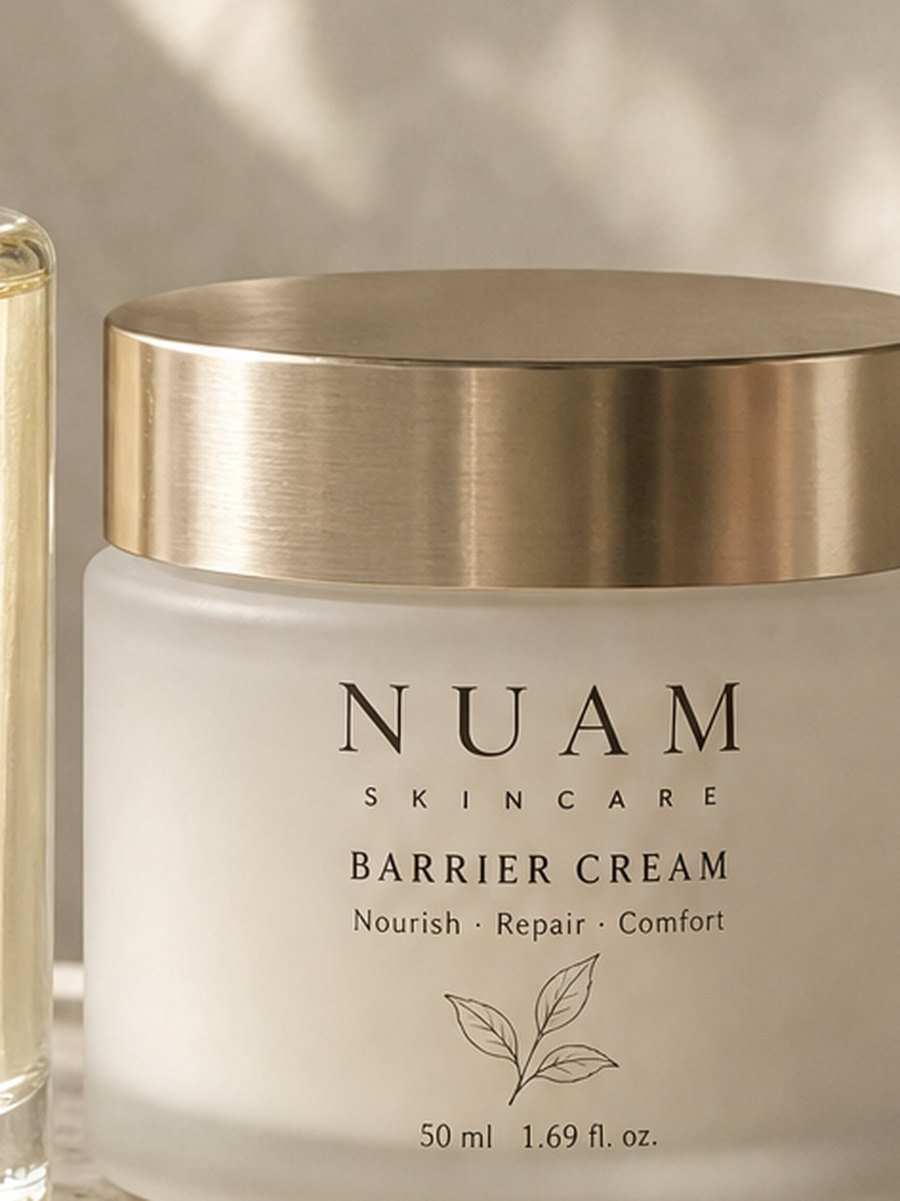
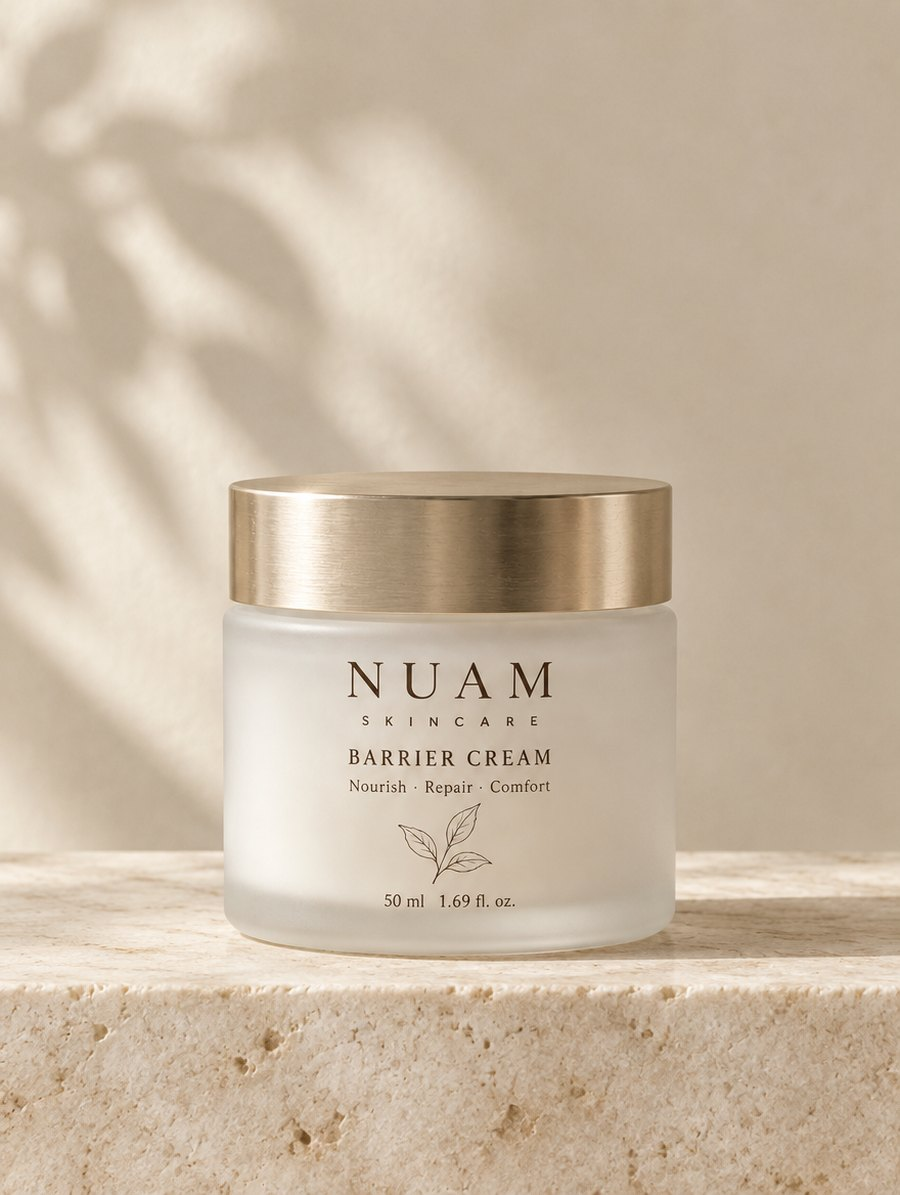
누암 제품컷 새로 생성해 교체 · 립오일을 신제품 라인으로 분리
Claude-Session: https://claude.ai/code/session_012Pxzg4ZZtgtWbr63iVa8wK

diff --git a/service-sales.html b/service-sales.html
@@ -206,7 +206,7 @@ html { scroll-behavior: auto; }
       <div class="sl-hero">
         <figure class="sl-shot">
           <div class="sl-shotframe">
-            <img src="assets/ref/img/nuam-cut-drop.jpg" alt="누암 배리어 세럼을 가까이 잡은 제품 컷" width="1200" height="1604" decoding="async">
+            <img src="assets/ref/img/nuam-cut-drop.jpg" alt="누암 배리어 세럼을 가까이 잡은 제품 컷" width="900" height="1195" decoding="async">
           </div>
           <figcaption class="sl-note"><strong>누암 배리어 세럼</strong> — 상세페이지 첫 화면에 그대로 올라가는 컷. <span class="sl-tag">가상 브랜드 콘셉트</span></figcaption>
         </figure>
@@ -301,7 +301,7 @@ html { scroll-behavior: auto; }
       <div class="grid grid--3 sl-grid3 mt-32" tabindex="0" role="group" aria-label="상세페이지 3장">
         <a class="card reveal" href="assets/ref/sites/nuam-detail.html" target="_blank" rel="noopener">
           <div class="media media--4x5">
-            <img src="assets/ref/img/nuam-cut-lineup.jpg" alt="누암 토너·세럼·크림을 나란히 세운 제품 컷" width="1200" height="1604" loading="lazy" decoding="async">
+            <img src="assets/ref/img/nuam-cut-lineup.jpg" alt="누암 토너·세럼·크림을 나란히 세운 제품 컷" width="880" height="1168" loading="lazy" decoding="async">
           </div>
           <p class="eyebrow mt-24">상세페이지 · 스킨케어 세럼</p>
           <h3>누암 배리어 세럼</h3>
@@ -341,7 +341,7 @@ html { scroll-behavior: auto; }
       <p class="lead maxw-60 reveal reveal-d1">상세페이지의 절반은 사진입니다. 스튜디오를 빌리지 않고 상품에 맞는 장면을 직접 만들어 씁니다. 옆으로 밀어서 보세요.</p>
 
       <div class="sl-rail mt-32" tabindex="0" role="group" aria-label="제품 컷 4장">
-        <figure class="sl-railitem"><div class="sl-shotframe"><img src="assets/ref/img/nuam-cut-texture.jpg" alt="누암을 쓴 뒤의 피부결을 보여주는 모델 뷰티 컷" width="1200" height="1604" loading="lazy" decoding="async"></div></figure>
+        <figure class="sl-railitem"><div class="sl-shotframe"><img src="assets/ref/img/nuam-cut-texture.jpg" alt="누암을 쓴 뒤의 피부결을 보여주는 모델 뷰티 컷" width="900" height="1200" loading="lazy" decoding="async"></div></figure>
         <figure class="sl-railitem"><div class="sl-shotframe"><img src="assets/ref/img/odok-cut-ingredients.jpg" alt="간식 원료를 늘어놓은 컷" width="1200" height="1604" loading="lazy" decoding="async"></div></figure>
         <figure class="sl-railitem"><div class="sl-shotframe"><img src="assets/ref/img/odok-cut-macro.jpg" alt="큐브 간식의 단면을 확대한 컷" width="1200" height="1604" loading="lazy" decoding="async"></div></figure>
         <figure class="sl-railitem"><div class="sl-shotframe"><img src="assets/ref/img/ppodeuk-cut-lineup.jpg" alt="세 가지 용기와 리필 파우치를 세운 라인업 컷" width="1200" height="1604" loading="lazy" decoding="async"></div></figure>
@@ -353,7 +353,7 @@ html { scroll-behavior: auto; }
       <div class="grid grid--3 sl-grid3 mt-24" tabindex="0" role="group" aria-label="썸네일 3장">
         <div class="card reveal">
           <div class="media media--16x9">
-            <img src="assets/ref/img/nuam-hero.jpg" alt="누암 썸네일 컷 — 선반 위에 놓인 토너·세럼·크림" width="1600" height="904" loading="lazy" decoding="async">
+            <img src="assets/ref/img/nuam-hero.jpg" alt="누암 썸네일 컷 — 선반 위에 놓인 토너·세럼·크림" width="1200" height="671" loading="lazy" decoding="async">
           </div>
           <p class="sl-note mb-0">누암 NUAM · 스킨케어 — 제품 하나만 남기고 지면을 비웠습니다.</p>
         </div>

diff --git a/reference.html b/reference.html
@@ -445,7 +445,7 @@
     </div>
 
     <figure class="bleed bleed--wide reveal">
-      <img class="ref-band-up" src="assets/ref/img/nuam-hero.jpg" alt="누암 상세페이지 첫 화면에 쓴 제품 컷 — 토너·세럼·크림 세 가지" width="1600" height="904" loading="lazy" decoding="async">
+      <img class="ref-band-up" src="assets/ref/img/nuam-hero.jpg" alt="누암 상세페이지 첫 화면에 쓴 제품 컷 — 토너·세럼·크림 세 가지" width="1200" height="671" loading="lazy" decoding="async">
       <figcaption>누암 배리어 세럼 상세페이지 첫 화면에 쓴 컷입니다. 모델 섭외도 촬영 스튜디오도 쓰지 않았습니다.</figcaption>
     </figure>
   </section>
@@ -640,7 +640,21 @@
       </div>
 
       <h3 class="ref-h3 reveal">UGC · 인플루언서 광고</h3>
-      <p class="ref-note reveal">크리에이터가 직접 찍어 올린 것처럼 보이는 광고입니다. 같은 제품 하나로 라이브 톤, 친구에게 말하는 톤, 발색 클로즈업, 제품컷까지 결을 바꿔가며 만듭니다. 모델 섭외도 촬영도 하지 않았습니다.</p>
+      <p class="ref-note reveal">앞의 기본 3종을 만든 같은 브랜드에서 <strong>신제품 하나가 나왔을 때</strong>를 가정했습니다. 누암 틴티드 립오일 한 품목으로, 크리에이터가 직접 찍어 올린 것처럼 보이는 광고를 라이브 톤, 친구에게 말하는 톤, 발색 클로즈업, 제품컷까지 결을 바꿔가며 만듭니다. 모델 섭외도 촬영도 하지 않았습니다.</p>
+      <div class="refgrid refgrid--v refgrid--v2 mb-24">
+        <article class="refcard reveal">
+          <div class="refcard-media"><img src="assets/ref/img/nuam-lip-product.jpg" alt="누암 틴티드 립오일 제품 컷 — 햇살 든 선반 위에 동백 잎과 함께 놓인 핑크 글라스 튜브" loading="lazy" decoding="async" width="810" height="1440"></div>
+          <p class="refcard-cat">제품컷</p>
+          <p class="refcard-title">누암 틴티드 립오일 · No.01 Petal Pink</p>
+          <p class="refcard-badge">가상 브랜드 콘셉트</p>
+        </article>
+        <article class="refcard reveal reveal-d1">
+          <div class="refcard-media"><img src="assets/ref/img/nuam-lip-model.jpg" alt="모델이 누암 틴티드 립오일을 얼굴 옆에 들고 카메라를 바라보는 뷰티 컷" loading="lazy" decoding="async" width="810" height="1440"></div>
+          <p class="refcard-cat">모델컷</p>
+          <p class="refcard-title">아래 광고 다섯 편이 이 제품 하나로 만들어졌습니다</p>
+          <p class="refcard-badge">가상 브랜드 콘셉트</p>
+        </article>
+      </div>
       <div class="refgrid refgrid--v refgrid--v5">
         <article class="refcard reveal">
           <div class="refcard-media">
@@ -679,7 +693,7 @@
             <button class="refcard-sound" type="button" aria-label="소리 켜기"><svg viewBox="0 0 24 24" width="18" height="18" aria-hidden="true" focusable="false"><path d="M4 9.5h3.2L12 5.4v13.2L7.2 14.5H4z" fill="currentColor"/><g class="s-off" stroke="currentColor" stroke-width="1.9" stroke-linecap="round"><path d="M16 9.6l4.4 4.8"/><path d="M20.4 9.6L16 14.4"/></g><g class="s-on" stroke="currentColor" stroke-width="1.9" fill="none" stroke-linecap="round"><path d="M15.8 9.2a4.2 4.2 0 0 1 0 5.6"/><path d="M18.4 7.2a7.6 7.6 0 0 1 0 9.6"/></g></svg></button>
           </div>
           <p class="refcard-cat">제품컷 · 15초</p>
-          <p class="refcard-title">햇빛과 그림자만으로 — 립 제품 제품컷</p>
+          <p class="refcard-title">햇빛과 그림자만으로 — 누암 틴티드 립오일</p>
           <p class="refcard-badge">가상 브랜드 콘셉트</p>
         </article>
         <article class="refcard reveal reveal-d4">

diff --git a/assets/ref/sites/nuam-home.html b/assets/ref/sites/nuam-home.html
@@ -809,7 +809,7 @@ html.in-frame .reveal{opacity:1 !important;transform:none !important}
 <main>
 
   <figure class="band">
-    <img src="../img/nuam-hero.jpg" width="1600" height="904" loading="eager" decoding="async"
+    <img src="../img/nuam-hero.jpg" width="1200" height="671" loading="eager" decoding="async"
          alt="누암 토너·세럼·크림 세 가지가 햇살이 드는 선반 위에 나란히 놓인 브랜드 컷.">
     <figcaption>누암 토너 · 세럼 · 크림</figcaption>
   </figure>
@@ -997,9 +997,9 @@ html.in-frame .reveal{opacity:1 !important;transform:none !important}
 
         <article class="card reveal reveal-d1">
           <div class="card-fig">
-            <img src="../img/nuam-cut-toner.jpg" width="1200" height="1604" loading="eager" decoding="sync" fetchpriority="high"
+            <img src="../img/nuam-cut-toner.jpg" width="900" height="1195" loading="eager" decoding="sync" fetchpriority="high"
                  alt="누암 카밍 토너 200ml 한 병이 햇살 든 선반 위에 서 있다.">
-            <img class="cut-b" src="../img/nuam-cut-lineup.jpg" width="1200" height="1604" loading="lazy" decoding="async" alt="" aria-hidden="true">
+            <img class="cut-b" src="../img/nuam-cut-lineup.jpg" width="880" height="1168" loading="lazy" decoding="async" alt="" aria-hidden="true">
           </div>
           <div class="plate">
             <span class="plate-num">200</span>
@@ -1026,9 +1026,9 @@ html.in-frame .reveal{opacity:1 !important;transform:none !important}
 
         <article class="card reveal reveal-d2">
           <div class="card-fig">
-            <img src="../img/nuam-cut-drop.jpg" width="1200" height="1604" loading="eager" decoding="sync"
+            <img src="../img/nuam-cut-drop.jpg" width="900" height="1195" loading="eager" decoding="sync"
                  alt="누암 배리어 세럼 30ml 한 병을 드로퍼 캡까지 가까이 잡은 제품 컷.">
-            <img class="cut-b" src="../img/nuam-cut-texture.jpg" width="1200" height="1604" loading="lazy" decoding="async" alt="" aria-hidden="true">
+            <img class="cut-b" src="../img/nuam-cut-texture.jpg" width="900" height="1200" loading="lazy" decoding="async" alt="" aria-hidden="true">
           </div>
           <div class="plate">
             <span class="plate-num">30</span>
@@ -1055,9 +1055,9 @@ html.in-frame .reveal{opacity:1 !important;transform:none !important}
 
         <article class="card reveal reveal-d3">
           <div class="card-fig">
-            <img src="../img/nuam-cut-cream.jpg" width="1200" height="1604" loading="eager" decoding="sync"
+            <img src="../img/nuam-cut-cream.jpg" width="900" height="1195" loading="eager" decoding="sync"
                  alt="누암 배리어 크림 50ml 용기를 골드 캡이 보이도록 가까이 잡은 제품 컷.">
-            <img class="cut-b" src="../img/nuam-hero.jpg" width="1600" height="904" loading="lazy" decoding="async" alt="" aria-hidden="true">
+            <img class="cut-b" src="../img/nuam-hero.jpg" width="1200" height="671" loading="lazy" decoding="async" alt="" aria-hidden="true">
           </div>
           <div class="plate">
             <span class="plate-num">50</span>

diff --git a/assets/ref/sites/nuam-detail.html b/assets/ref/sites/nuam-detail.html
@@ -364,7 +364,7 @@ footer .concept{font-size:12px;color:#8E7D84;margin-top:24px}
 
 <header class="hero" id="hero">
   <figure class="hero-shot" id="heroShot">
-    <img src="../img/nuam-hero.jpg" width="1600" height="904" loading="eager" decoding="async"
+    <img src="../img/nuam-cut-lineup.jpg" width="880" height="1168" loading="eager" decoding="async"
          alt="누암 토너·세럼·크림 세 가지가 햇살이 드는 선반 위에 나란히 놓인 브랜드 컷.">
     <figcaption>저녁에 다섯 겹.<br>다 마르길 기다리는 시간이 길다.</figcaption>
   </figure>
@@ -398,7 +398,7 @@ footer .concept{font-size:12px;color:#8E7D84;margin-top:24px}
 </header>
 
 <figure class="band">
-  <img src="../img/nuam-cut-texture.jpg" width="1200" height="1604" loading="lazy" decoding="async"
+  <img src="../img/nuam-cut-texture.jpg" width="900" height="1200" loading="lazy" decoding="async"
        alt="누암을 쓴 뒤의 피부결을 보여주는 모델 뷰티 컷.">
   <figcaption>누암 배리어 세럼 30ml</figcaption>
 </figure>
@@ -548,7 +548,7 @@ footer .concept{font-size:12px;color:#8E7D84;margin-top:24px}
     <div class="steps">
       <div class="step">
         <figure class="step-fig">
-          <img src="../img/nuam-cut-drop.jpg" width="1200" height="1604" loading="lazy" decoding="async" alt="누암 배리어 세럼 30ml 한 병을 드로퍼 캡까지 가까이 잡은 제품 컷.">
+          <img src="../img/nuam-cut-drop.jpg" width="900" height="1195" loading="lazy" decoding="async" alt="누암 배리어 세럼 30ml 한 병을 드로퍼 캡까지 가까이 잡은 제품 컷.">
         </figure>
         <span class="sn">1</span>
         <h4>세안 후 2~3방울</h4>
@@ -556,7 +556,7 @@ footer .concept{font-size:12px;color:#8E7D84;margin-top:24px}
       </div>
       <div class="step">
         <figure class="step-fig">
-          <img src="../img/nuam-cut-texture.jpg" width="1200" height="1604" loading="lazy" decoding="async" alt="누암을 쓴 뒤의 피부결을 보여주는 모델 뷰티 컷.">
+          <img src="../img/nuam-cut-texture.jpg" width="900" height="1200" loading="lazy" decoding="async" alt="누암을 쓴 뒤의 피부결을 보여주는 모델 뷰티 컷.">
         </figure>
         <span class="sn">2</span>
         <h4>얼굴 전체에 얇게</h4>
@@ -564,7 +564,7 @@ footer .concept{font-size:12px;color:#8E7D84;margin-top:24px}
       </div>
       <div class="step">
         <figure class="step-fig">
-          <img src="../img/nuam-cut-lineup.jpg" width="1200" height="1604" loading="lazy" decoding="async" alt="토너·세럼·크림 세 가지가 햇살 든 선반 위에 나란히 놓여 있다.">
+          <img src="../img/nuam-cut-lineup.jpg" width="880" height="1168" loading="lazy" decoding="async" alt="토너·세럼·크림 세 가지가 햇살 든 선반 위에 나란히 놓여 있다.">
         </figure>
         <span class="sn">3</span>
         <h4>손바닥으로 감싸 흡수</h4>

diff --git a/index.html b/index.html
@@ -200,7 +200,7 @@ main .section--flush-t { padding-top: 0; }
 
         <article class="card pkg reveal reveal-d2">
           <div class="media media--16x9">
-            <img src="assets/ref/img/nuam-hero.jpg" alt="가상 브랜드 NUAM 누암 메인컷 — 상세페이지 첫 화면에 쓴 제품 사진" width="1600" height="904" loading="lazy" decoding="async">
+            <img src="assets/ref/img/nuam-hero.jpg" alt="가상 브랜드 NUAM 누암 메인컷 — 상세페이지 첫 화면에 쓴 제품 사진" width="1200" height="671" loading="lazy" decoding="async">
           </div>
           <p class="pkg-tag">② 온라인 매출 패키지</p>
           <h3>팔 물건이 있다면, 팔리는 화면부터 만듭니다.</h3>
@@ -286,7 +286,7 @@ main .section--flush-t { padding-top: 0; }
 
       <div class="split-media mt-32">
         <div class="media media--4x3 reveal">
-          <img src="assets/ref/img/nuam-cut-drop.jpg" alt="누암 배리어 세럼 30ml 한 병을 드로퍼 캡까지 가까이 잡은 제품컷" width="1200" height="1604" loading="lazy" decoding="async">
+          <img src="assets/ref/img/nuam-cut-drop.jpg" alt="누암 배리어 세럼 30ml 한 병을 드로퍼 캡까지 가까이 잡은 제품컷" width="900" height="1195" loading="lazy" decoding="async">
         </div>
         <div class="reveal reveal-d1">
           <p class="eyebrow">설명보다 결과물이 빠릅니다</p>
@@ -408,7 +408,7 @@ main .section--flush-t { padding-top: 0; }
 
       <div id="guarantee" class="split-media split-media--flip mt-32" style="scroll-margin-top:84px">
         <div class="media media--4x3 reveal">
-          <img src="assets/ref/img/nuam-cut-texture.jpg" alt="누암을 쓴 뒤의 피부결을 보여주는 모델 뷰티 컷" width="1200" height="1604" loading="lazy" decoding="async">
+          <img src="assets/ref/img/nuam-cut-texture.jpg" alt="누암을 쓴 뒤의 피부결을 보여주는 모델 뷰티 컷" width="900" height="1200" loading="lazy" decoding="async">
         </div>
         <div>
         <h3 class="h2--quiet reveal">리스크는 저희가 지겠습니다</h3>
@@ -725,7 +725,7 @@ main .section--flush-t { padding-top: 0; }
   </section>
 
   <figure class="bleed bleed--wide">
-    <img src="assets/ref/img/nuam-hero.jpg" alt="가상 브랜드 NUAM 누암의 메인컷 — 누암 토너·세럼·크림 세 가지가 햇살이 드는 선반 위에 나란히 놓인 브랜드 컷" width="1600" height="904" loading="lazy" decoding="async">
+    <img src="assets/ref/img/nuam-hero.jpg" alt="가상 브랜드 NUAM 누암의 메인컷 — 누암 토너·세럼·크림 세 가지가 햇살이 드는 선반 위에 나란히 놓인 브랜드 컷" width="1200" height="671" loading="lazy" decoding="async">
     <figcaption>가상 브랜드 ‘NUAM 누암’ — 이름과 로고, 제품컷, 상세페이지, 광고 영상까지 your wings가 직접 제작했습니다.</figcaption>
   </figure>
 

diff --git a/about.html b/about.html
@@ -244,7 +244,7 @@ main .hero-body, main .hero-sub { font-size: clamp(1.0625rem, 1.5vw, 1.2rem); } 
       <div class="grid grid--3 mt-32">
         <a class="card reveal reveal-d1" href="reference.html">
           <div class="media media--16x9">
-            <img src="assets/ref/img/nuam-hero.jpg" alt="가상 브랜드 누암의 스킨케어 라인 제품 컷 — 누암 토너·세럼·크림 세 가지가 햇살이 드는 선반 위에 나란히 놓인 브랜드 컷" width="1600" height="904" loading="lazy" decoding="async">
+            <img src="assets/ref/img/nuam-hero.jpg" alt="가상 브랜드 누암의 스킨케어 라인 제품 컷 — 누암 토너·세럼·크림 세 가지가 햇살이 드는 선반 위에 나란히 놓인 브랜드 컷" width="1200" height="671" loading="lazy" decoding="async">
           </div>
           <h3 class="mt-24">NUAM 누암</h3>
           <p class="muted mb-0">스킨케어 · 로고 규정집, 홈페이지, 상세페이지, 라이브 영상</p>

diff --git a/service-brand.html b/service-brand.html
@@ -344,7 +344,7 @@ html { scroll-behavior: auto; }
             <h3>누암 NUAM — 잡지 조판, 스크롤 스토리텔링</h3>
             <p class="bp-cap">분홍 지면 하나로 밀고, 문단마다 사진이 자리를 바꿉니다.</p>
             <div class="bp-shot">
-              <img src="assets/ref/img/nuam-hero.jpg" alt="누암 NUAM 홈페이지 키 비주얼 — 선반 위에 놓인 토너·세럼·크림" width="1600" height="904" loading="lazy" decoding="async">
+              <img src="assets/ref/img/nuam-hero.jpg" alt="누암 NUAM 홈페이지 키 비주얼 — 선반 위에 놓인 토너·세럼·크림" width="1200" height="671" loading="lazy" decoding="async">
             </div>
           </a>
         </li>

diff --git a/contact.html b/contact.html
@@ -196,7 +196,7 @@ main .hero-body                { font-size: clamp(1.0625rem, 1.5vw, 1.2rem); }
   </section>
 
   <figure class="bleed bleed--wide">
-    <img src="assets/ref/img/nuam-hero.jpg" alt="가상 브랜드 NUAM 의 스킨케어 라인 브랜드 컷" width="1600" height="904" decoding="async">
+    <img src="assets/ref/img/nuam-hero.jpg" alt="가상 브랜드 NUAM 의 스킨케어 라인 브랜드 컷" width="1200" height="671" decoding="async">
     <figcaption>상담이 끝나면 결국 이런 것이 남습니다 — 가상 브랜드 NUAM 브랜드 컷 · 실제 고객사 작업물이 아닙니다.</figcaption>
   </figure>
 

diff --git a/assets/styles.css b/assets/styles.css
@@ -863,6 +863,7 @@ table.plain th { font-weight: 800; background: var(--bg-soft); white-space: nowr
 .mt-24 { margin-top: 24px; }
 .mt-32 { margin-top: 32px; }
 .mb-0 { margin-bottom: 0; }
+.mb-24 { margin-bottom: 24px; }
 .center { text-align: center; }
 .maxw-60 { max-width: 60ch; }
 
